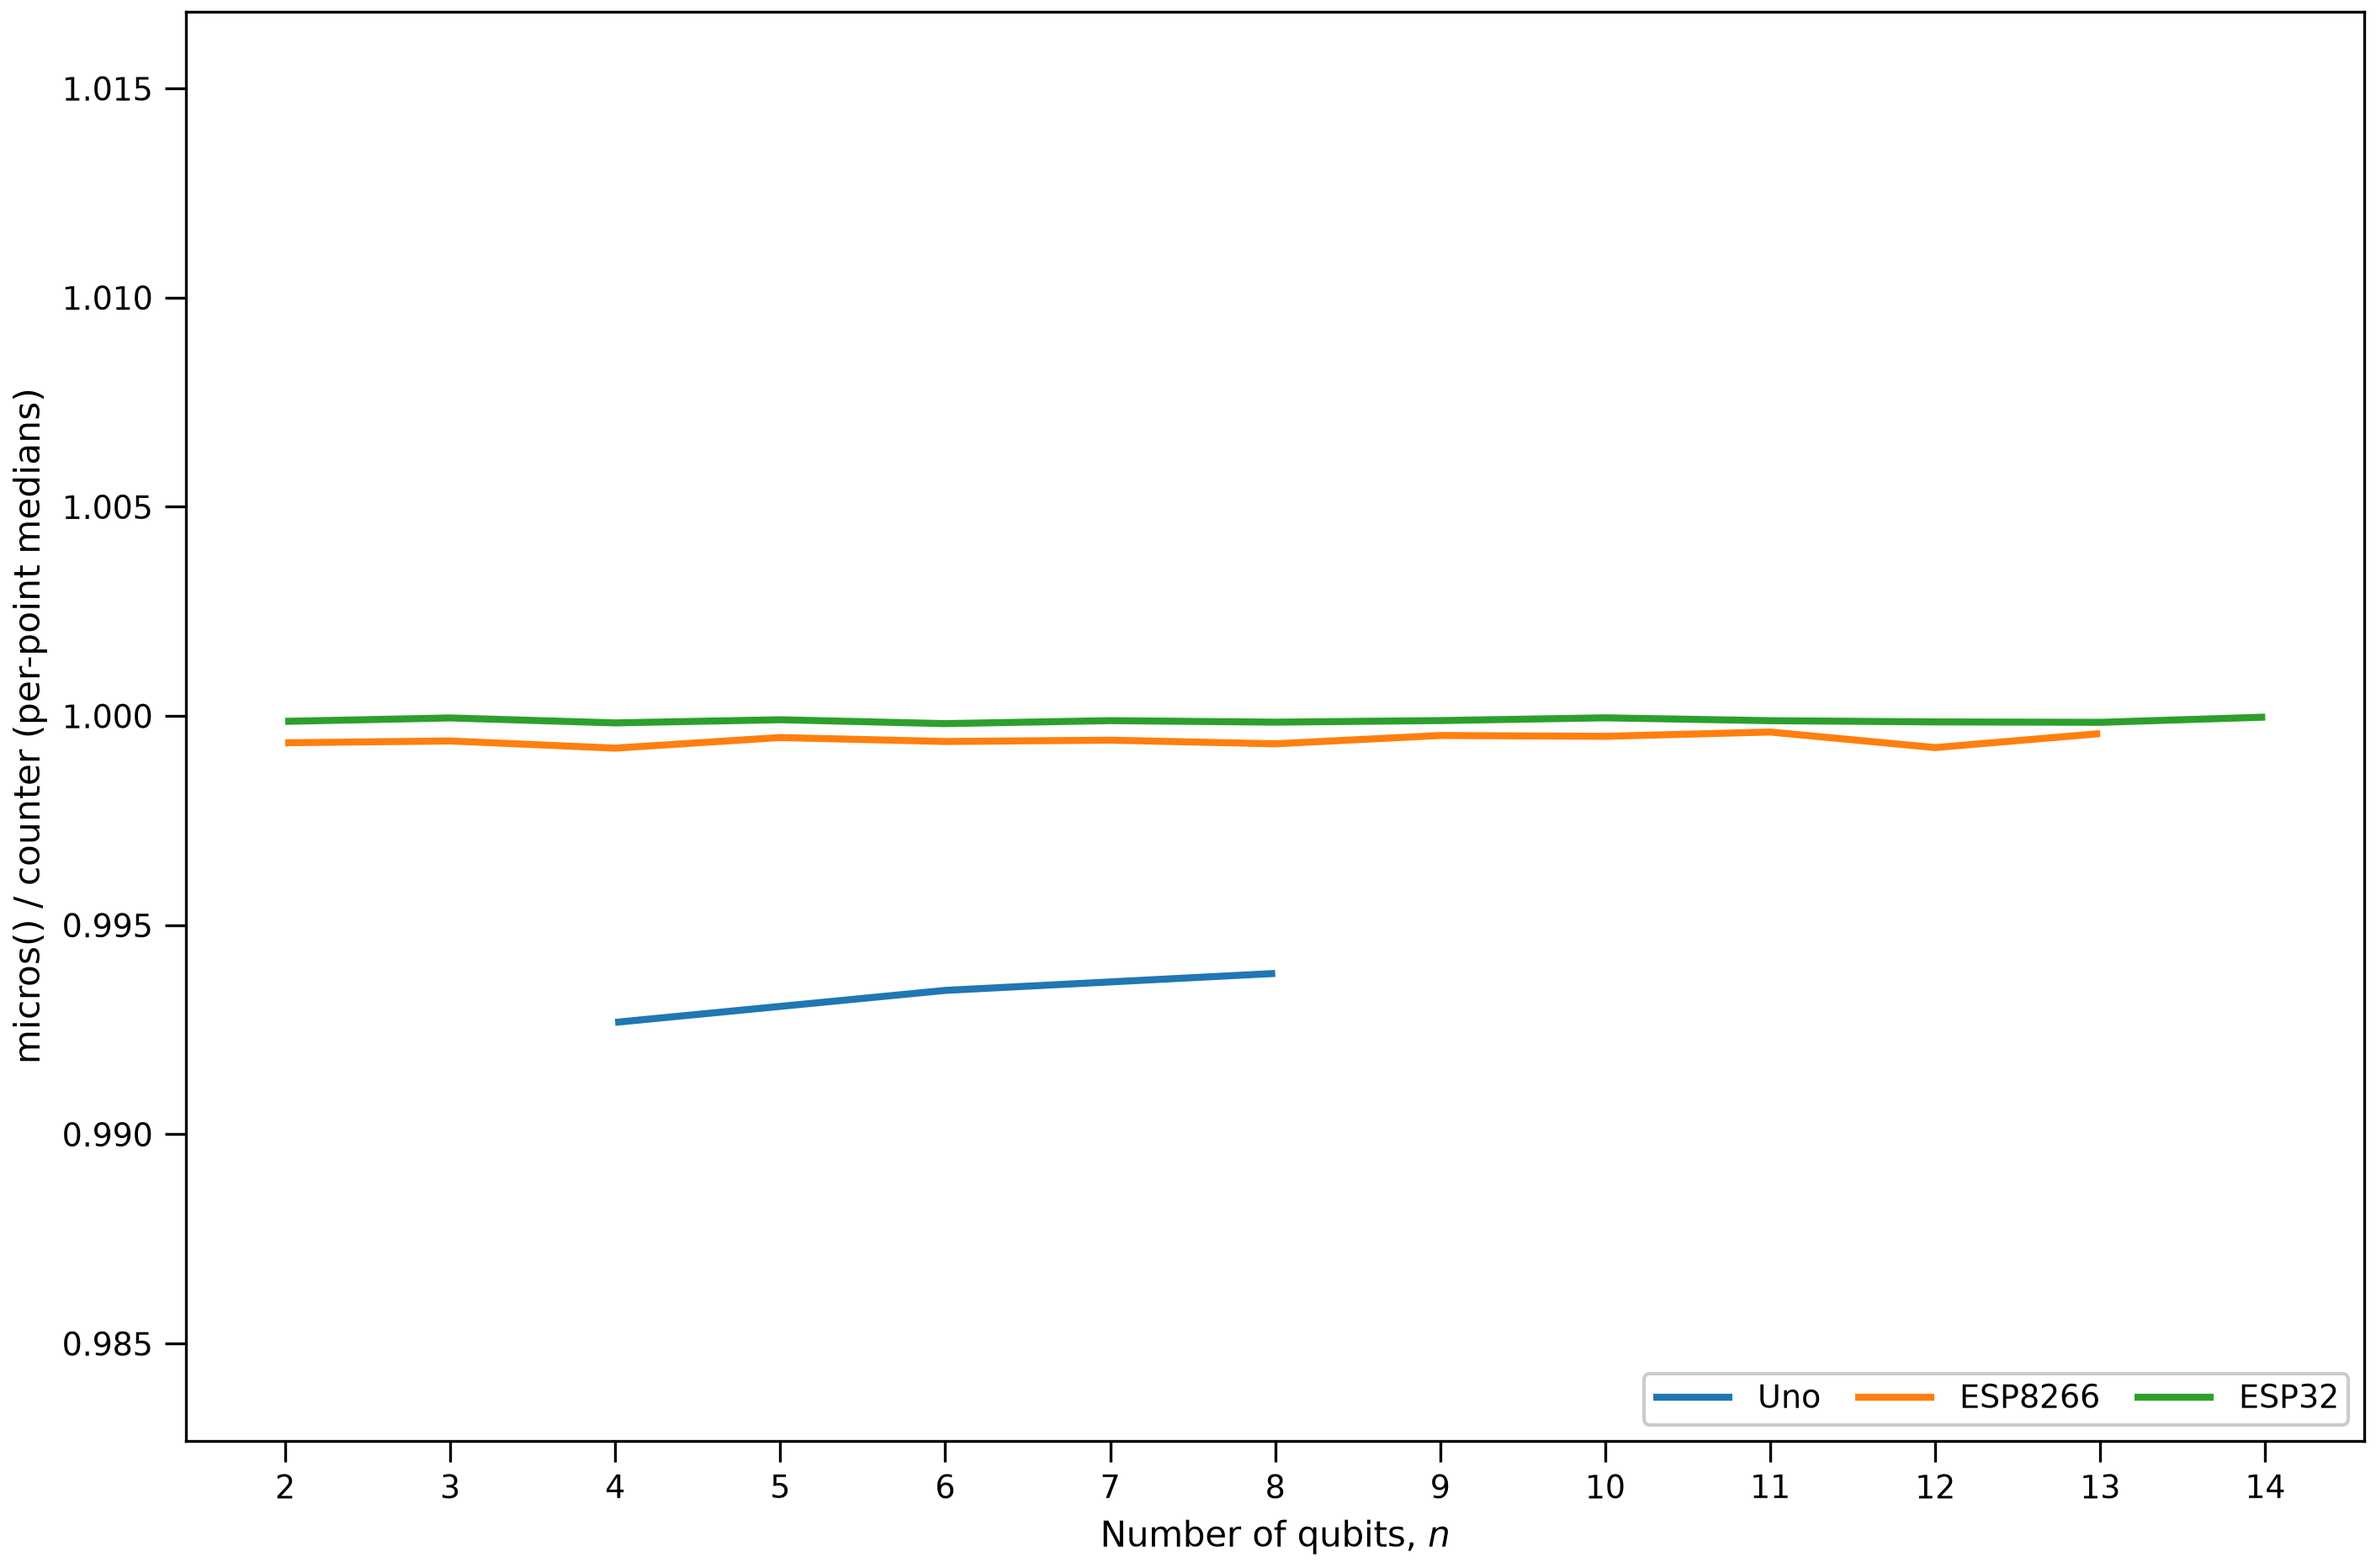
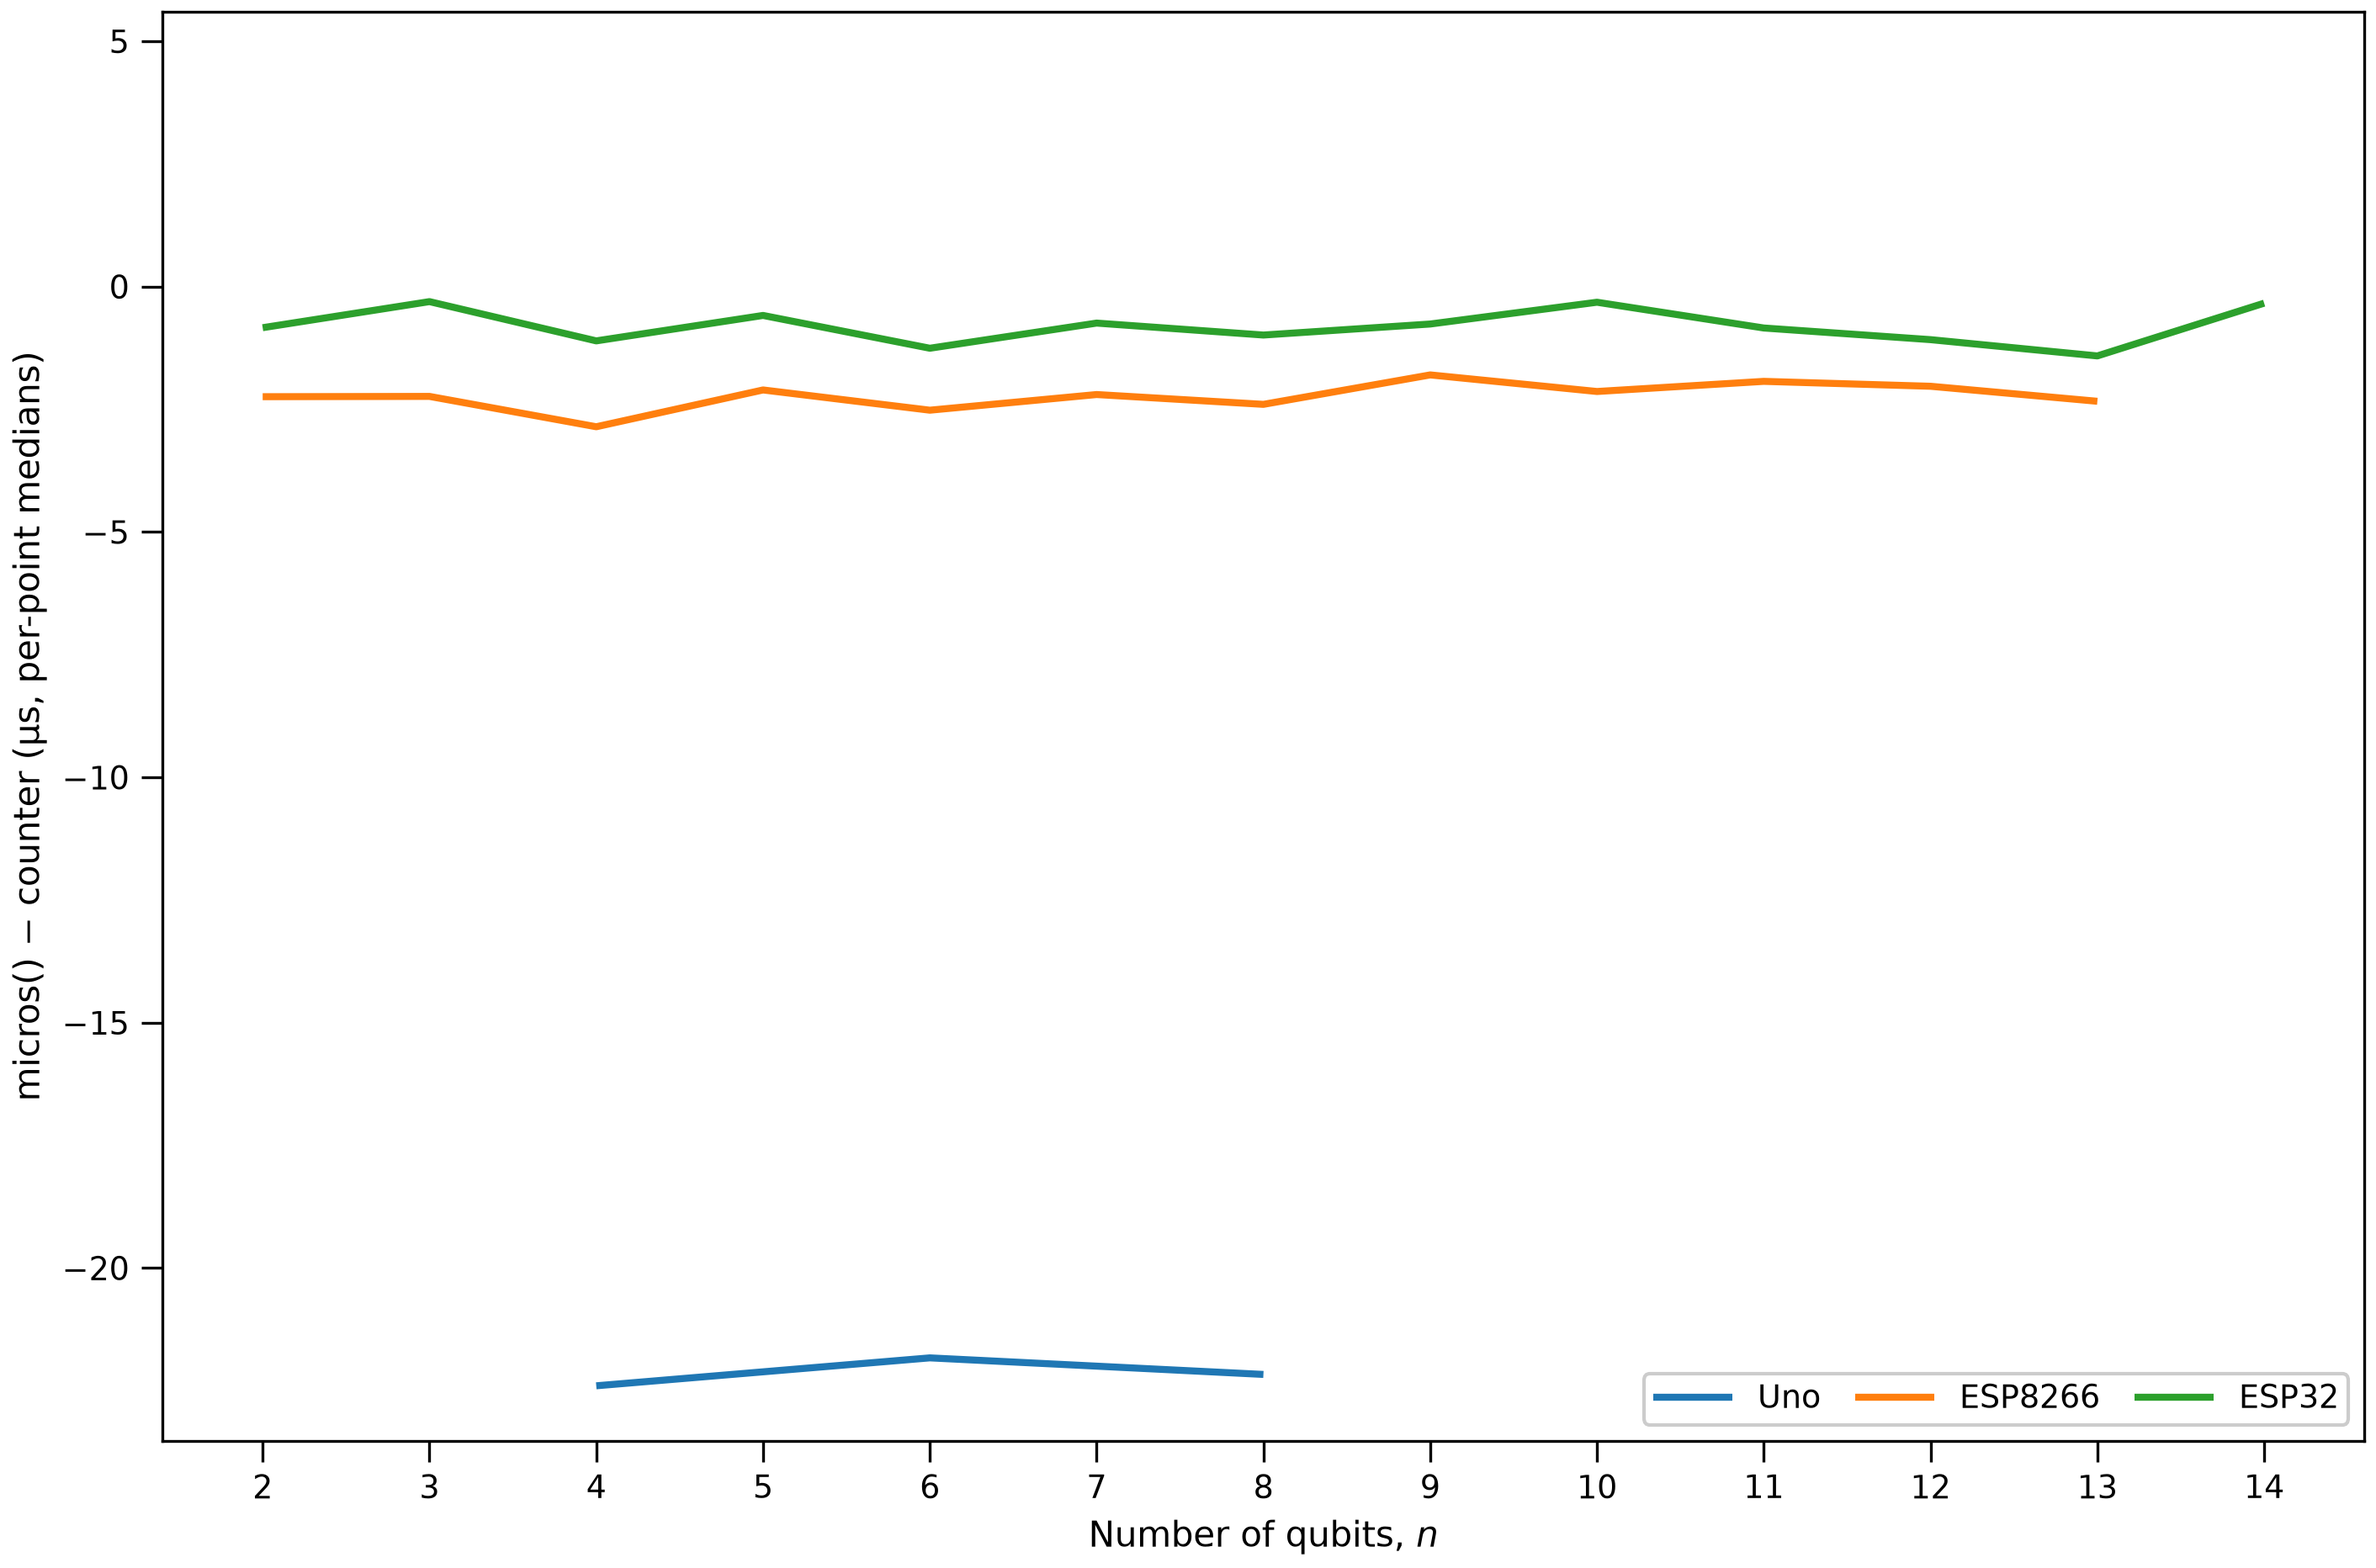
figures: timer_vs_counter charts show micros() minus counter in microseconds
Claude-Session: https://claude.ai/code/session_01AE6WdfFceGc968bUQSKnsU

diff --git a/analysis/timer_vs_counter_house_plots.py b/analysis/timer_vs_counter_house_plots.py
@@ -1,6 +1,6 @@
 #!/usr/bin/env python3
 # timer_vs_counter_house_plots.py
-# micros() / counter ratio of the point medians vs n, one chart per circuit with the three boards, in the house line-chart style of the graph-create skill
+# micros() minus counter (µs, point medians) vs n, one chart per circuit with the three boards, in the house line-chart style of the graph-create skill
 # (same layout as analysis/algorithm_house_plots.py: no title, legend = board names, linear y). Only points whose counter pair passed the validity rules
 # (usable) in the selected sessions are drawn (data/derived/counter_validity.csv, read-only); the line is drawn straight over unusable points.
 #   data/figures/phase2/timer_vs_counter/<circuit>.png   data/figures/phase3/timer_vs_counter/<circuit>.png
@@ -21,7 +21,7 @@ from plot_style import plot_grouped_lines, save_figure  # noqa: E402
 
 cv = pd.read_csv(os.path.join(ROOT, "data", "derived", "counter_validity.csv"))
 cv = cv[cv.selected.astype(bool) & cv.usable.astype(bool) & (cv.counter_median_us > 0) & (cv.micros_median_us > 0)]
-cv = cv.assign(ratio=cv.micros_median_us / cv.counter_median_us)
+cv = cv.assign(ratio=cv.micros_median_us - cv.counter_median_us)     # column name kept: it is the plotted value, in µs
 NAME = {"uno": "Uno", "esp8266": "ESP8266", "esp32": "ESP32"}
 for ph in (2, 3):
     for c in ("h_all", "bell_ghz", "qft", "grover"):
@@ -29,12 +29,13 @@ for ph in (2, 3):
         rows = [{"n": int(r.n), "ratio": float(r.ratio), "board": NAME[r.board], "series": "ratio"} for r in g.sort_values(["board", "n"]).itertuples()]
         df = pd.DataFrame(rows)
         fig, ax = plot_grouped_lines(df, "n", "ratio", "board", "series", title="", xlabel="Number of qubits, $n$",
-                                     ylabel=r"micros() / counter (per-point medians)", log_y=False,
+                                     ylabel=r"micros() $-$ counter (µs, per-point medians)", log_y=False,
                                      group_order=list(NAME.values()), series_order=["ratio"])
         for t in ax.get_legend().get_texts():
             t.set_text(t.get_text().replace(" ratio", ""))
-        lo, hi = min(df.ratio.min(), 1.0) - 0.01, max(df.ratio.max(), 1.0) + 0.01   # always shows ratio 1 and at least +-1 %: a 0.1 % spread must not look large
-        ax.set_ylim(lo, hi + 0.25 * (hi - lo))                                       # headroom for the legend
+        lo, hi = min(df.ratio.min(), 0.0), max(df.ratio.max(), 0.0)          # always shows 0 (no difference)
+        span = max(hi - lo, 1.0)
+        ax.set_ylim(lo - 0.05 * span, hi + 0.25 * span)                      # headroom for the legend
         out = os.path.join(ROOT, "data", "figures", f"phase{ph}", "timer_vs_counter", f"{c}.png")
         os.makedirs(os.path.dirname(out), exist_ok=True)
         save_figure(fig, out)
